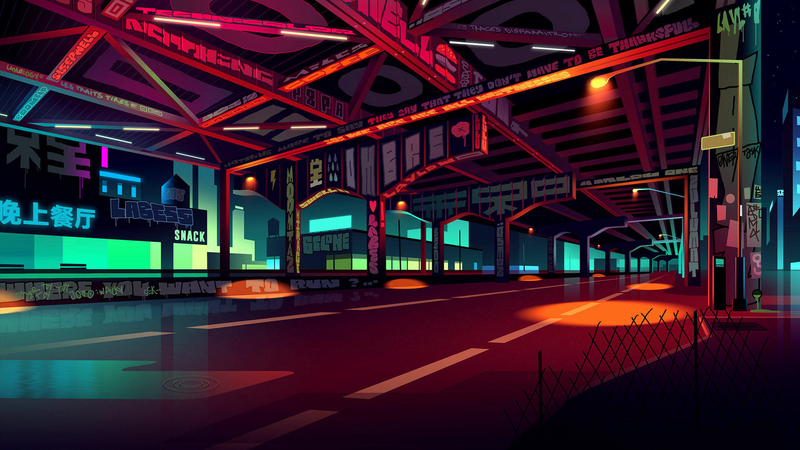
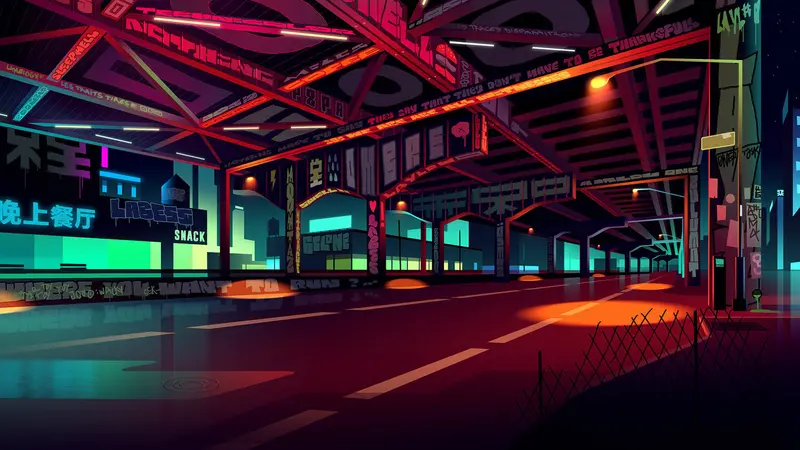
feat(feature-branch):  Main image created 3 version to avoid heavy loading data on every device.

diff --git a/index.html b/index.html
@@ -45,21 +45,31 @@
      
      <div class="hero-image">
 
-      <img 
-         src="image-skates/main_image_small.webp"
-         srcset=
-             "
-             image-skates/main_image_small.webp 800w,
-             image-skates/main_image.webp 1600w
-             "
-         sizes="(max-width: 768px) 100vw, 50vw"
-         alt="Skate routes Costa Rica"
-         loading="eager"
-         fetchpriority="high"
-         decoding="async"  
-         width="1600"
-         height="900"
-      > 
+        <div class="hero-image">
+
+  <img
+    src="image-skates/main_image_big.webp"
+
+    srcset="
+      image-skates/main_image_small.webp 800w,
+      image-skates/main_image_medium.webp 1200w,
+      image-skates/main_image_big.webp 1920w
+    "
+
+    sizes="
+      (max-width: 768px) 100vw,
+      (max-width: 1200px) 100vw,
+      100vw
+    "
+
+    alt="Skate routes Costa Rica"
+    loading="eager"
+    fetchpriority="high"
+    decoding="async"
+    width="1600"
+    height="900">
+
+</div>
 
       <div class="banner-text">
         <h2>Skate Routes CR</h2>

diff --git a/js/main.js b/js/main.js
@@ -17,7 +17,7 @@ const skateparks = [
   },
   {
     title: "Salvador Skatepark",
-    image: "image-skates/savador_skatepark.webp",
+    image: "image-skates/salvador_skatepark.webp",
     description: "Beginner-friendly park near Sabana (Mantica). Known as a safe local skate spot with basic features.",
     map: "https://www.google.com/maps?q=Salvador+Skatepark+San+Jose"
   },
